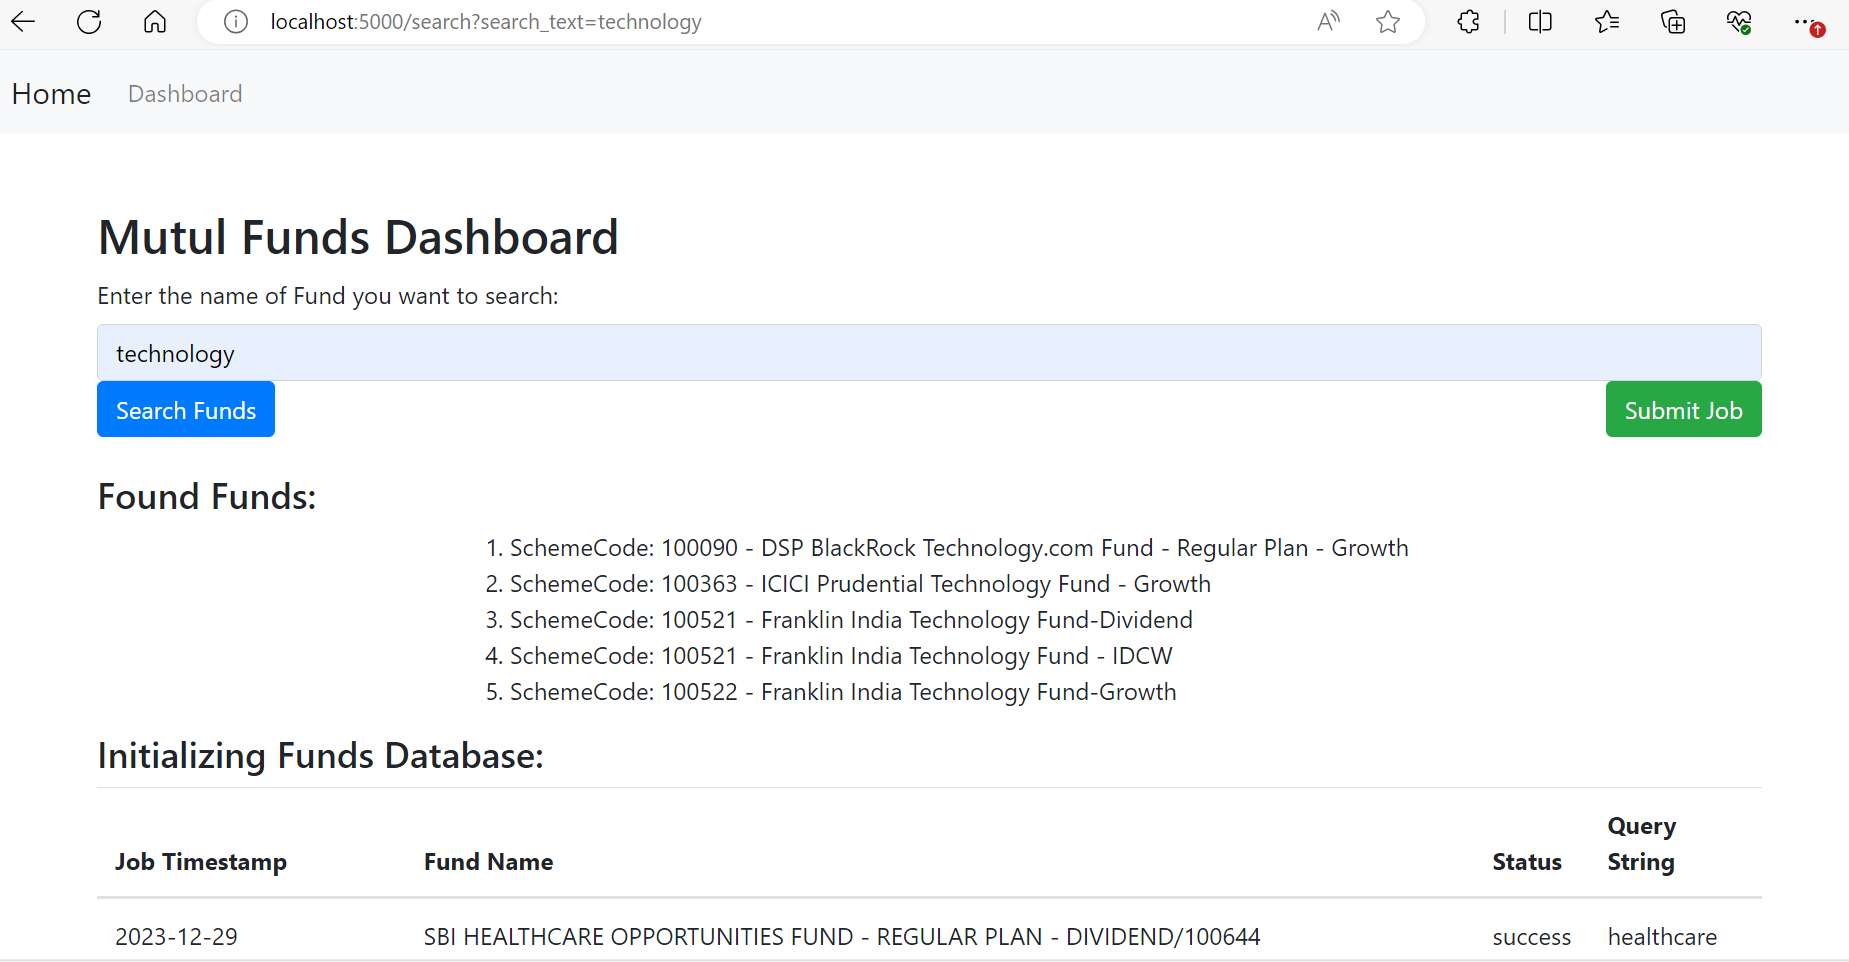
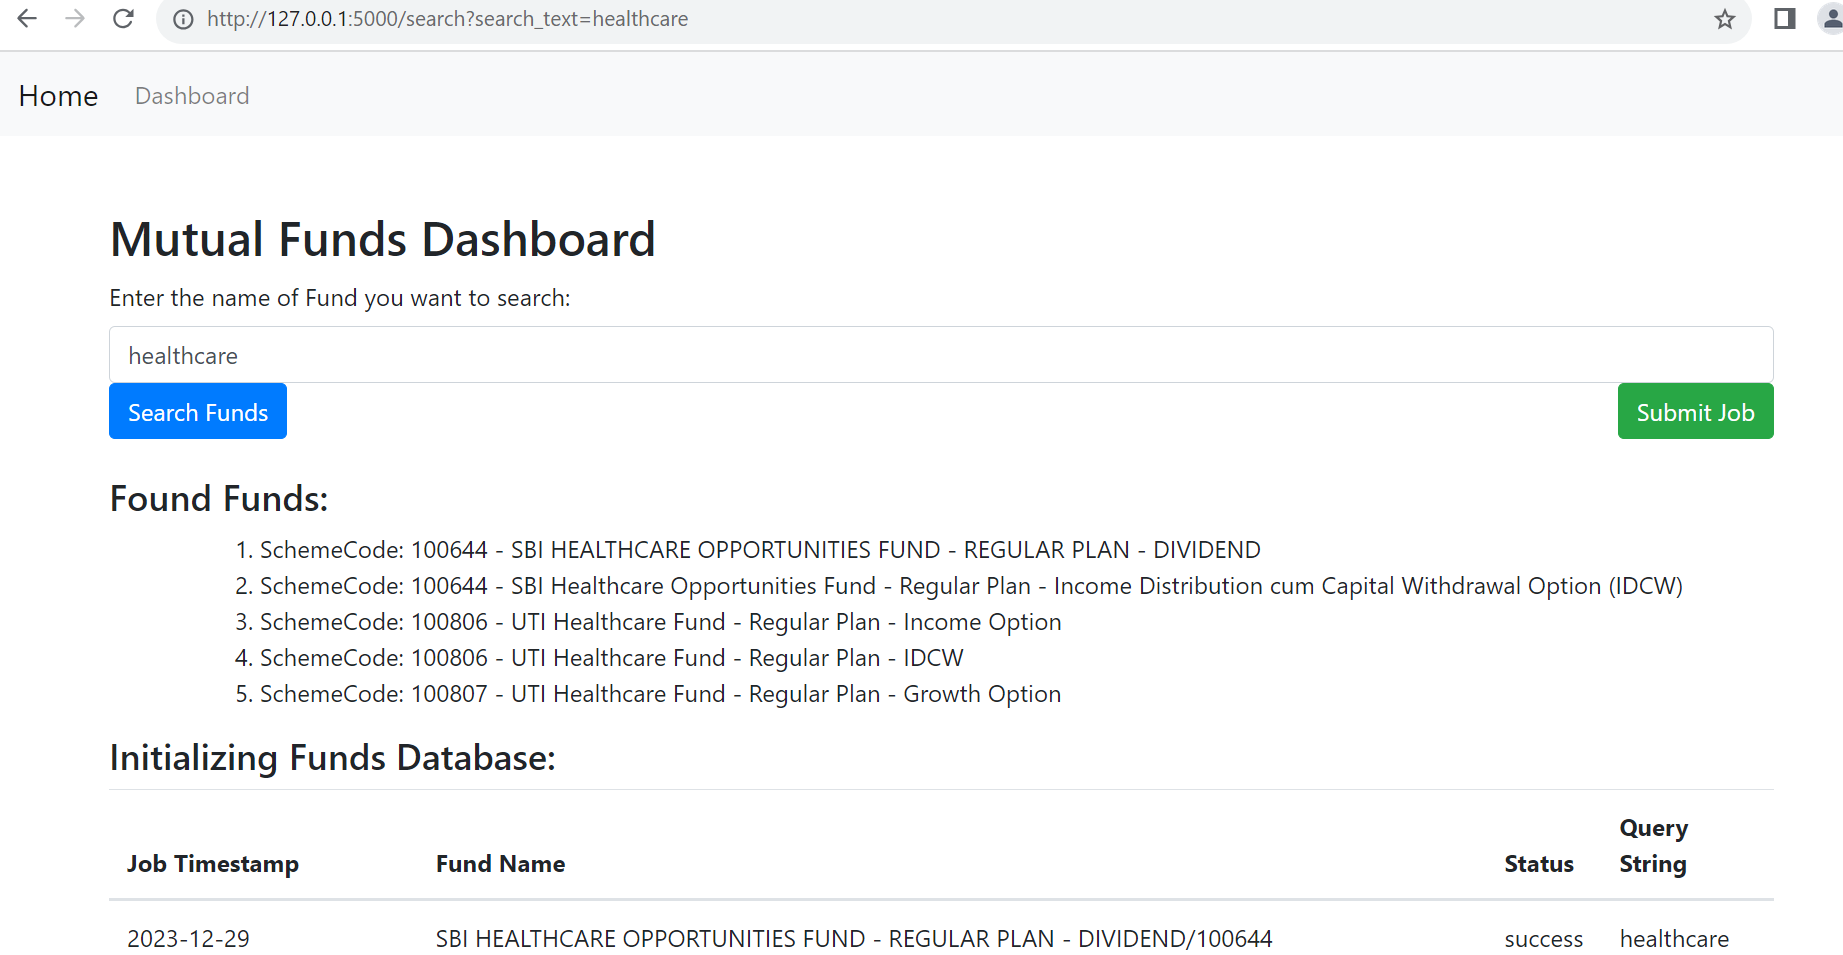
readme

diff --git a/dashboard/templates/index.html b/dashboard/templates/index.html
@@ -23,7 +23,7 @@
     </nav>
 
     <div class="container mt-5">
-        <h2>Mutul Funds Dashboard</h2>
+        <h2>Mutual Funds Dashboard</h2>
         
         <form method="post" action="{{ url_for('start_dag') }}" class="mb-4">
             <div class="form-group">

diff --git a/README.md b/README.md
@@ -9,10 +9,11 @@ The following core functionalities are implemeted:
 3. PySpark scripts to run ETL operations via spark jobs on requested mutual funds data.
 4. Airflow DAG script to schedule and manage PySpark scripts.
 5. Saving the processed data into an AWS S3 bucket as `.parquet` files for efficient access. 
-6. Flask webserver which allows the user to **_thematically group Mutual funds_**, initiate data extraction, and plot the data on a dashboard.
+6. Testing the ETL script with unittests.
+7. Flask webserver which allows the user to **_thematically group Mutual funds_**, initiate data extraction, and plot the data on a dashboard.
 
 
-![Alt text](tmp/images/Architecture.PNG?raw=true "Project Architecture")
+![Alt text](tmp/images/Architecture.png?raw=true "Project Architecture")
 
 ## Project Overview
 
@@ -26,14 +27,9 @@ For each mutual fund in the group, a new DAG is initiated in Airflow. The DAG re
 ![Alt text](tmp/images/Flaskjobs.PNG?raw=true "Flask dashboard")
 
 ### 3. Plot the Mutual funds grouped by respective themes in a Plotly graph
-![Alt text](tmp/images/mf-plot.PNG?raw=true "Flask dashboard")
+![Alt text](tmp/images/MF-plot.PNG?raw=true "Flask dashboard")
 
-<!-- ## Things to do;
 
-*  Set up Apache Spark locally. 
-*  Set up Apache Airflow on locally.
-*  Write the Spark Jobs to Extract, Transform and Load the data. 
-*  Design the Airflow DAG to trigger and schedule the Spark jobs. -->
 
 ### How to Run
 
@@ -50,10 +46,12 @@ For each mutual fund in the group, a new DAG is initiated in Airflow. The DAG re
 3. Use the provided Airflow credentials to log in (`airflow:airflow`)
 4. Explore and manage your DAGs (Directed Acyclic Graphs) in the Airflow web UI
 5. Monitor Spark jobs using the Spark web UI at `http://localhost:8000`
-
-#### Starting the DAG manually
-Access the Airflow web UI at `http://localhost:8080`
-
+6. Run Flask webserver
+   ``` 
+   pip install -r requirements.txt
+   cd dashboard 
+   python app.py
+   ```
 
 
 ### Containers and Dependencies
